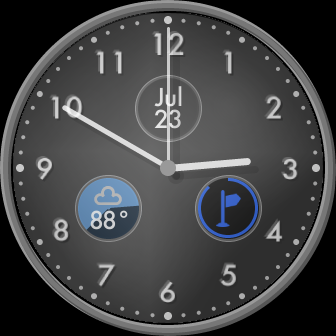
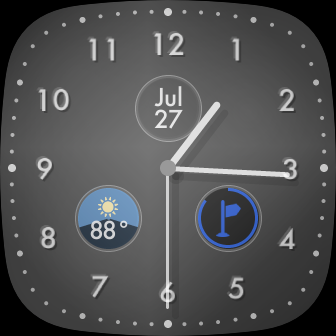
Update documentation

diff --git a/app/face.js b/app/face.js
@@ -107,7 +107,4 @@ class Face {
     }
 }
 
-function showItem(item) { item.style.visibility = "visible"; }
-function hideItem(item) { item.style.visibility = "hidden"; }
-
 export default Face;

diff --git a/README.md b/README.md
@@ -10,6 +10,8 @@ Included sensors are:
 + Distance
 + Active Zone Minutes
 
+The clock face can also be switched from round to square in the settings.
+
 <img src="Screenshot1.png" />
 <img src="Screenshot2.png" />
 <img src="Screenshot3.png" />
